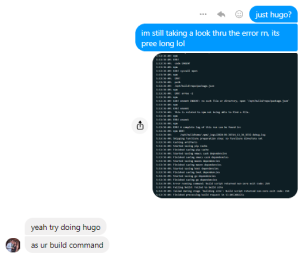
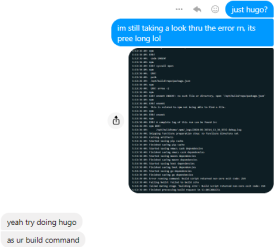
img update

Changed region(s): [[0.3796, 0.0, 1.0, 0.7935], [0.0, 0.8785, 0.3504, 0.9919]]

diff --git a/content/week1.md b/content/week1.md
@@ -7,7 +7,7 @@ dropCap: false
 ## Creating a Blog
 In this first week of the Cybersecurity Summer Studio, I was tasked with creating a blog to record my thoughts and reflections for the following weeks.
 
-I'd never created a blog before, and I was incredibly lost in what this involved, and even where to even start. I had no choice but to blindly follow the resources linked by my helpful tutors in Microsoft teams, and to frantically google and ask around when things simply didn't work out.
+I'd never created a blog before, and I was incredibly lost in what this involved, and even where to even start. 
 
 ### Thinking about Installation
 As with working with any new languages or programs, there were many things to install before I could even begin on my actual work and blog content. For this blog, I setup:
@@ -33,16 +33,17 @@ The structure and look of the site would be built using Hugo, my files would be 
 Everything was so much clearer after understanding this framework. After this, I was able to fearlessly get to work on correctly setting up everything I needed.
 
 ### Unexpected Problems
-For the most part of my setup, I was following a Step by Step guide the whole way, until it didn't.
+For the most part of my setup, I was following a Step by Step guide which was helpful the whole way, until it wasn't.
 ![alt text](https://raw.githubusercontent.com/friedchicken1/summer-studio/master/data/img/hugo%20orig.png)
 
 Above: Step 5 of the guide, detailing setup for my site on Netlify (https://www.netlify.com/blog/2016/09/21/a-step-by-step-guide-victor-hugo-on-netlify/#building-your-site)
 
 
 
-
+![alt text](https://raw.githubusercontent.com/friedchicken1/summer-studio/master/data/img/error%20hugo.png)
 
 ![alt text](https://raw.githubusercontent.com/friedchicken1/summer-studio/master/data/img/hugo%20fix.png)
+
 
 
 ![alt text](https://raw.githubusercontent.com/friedchicken1/summer-studio/master/data/img/environmental%20variable.png)
